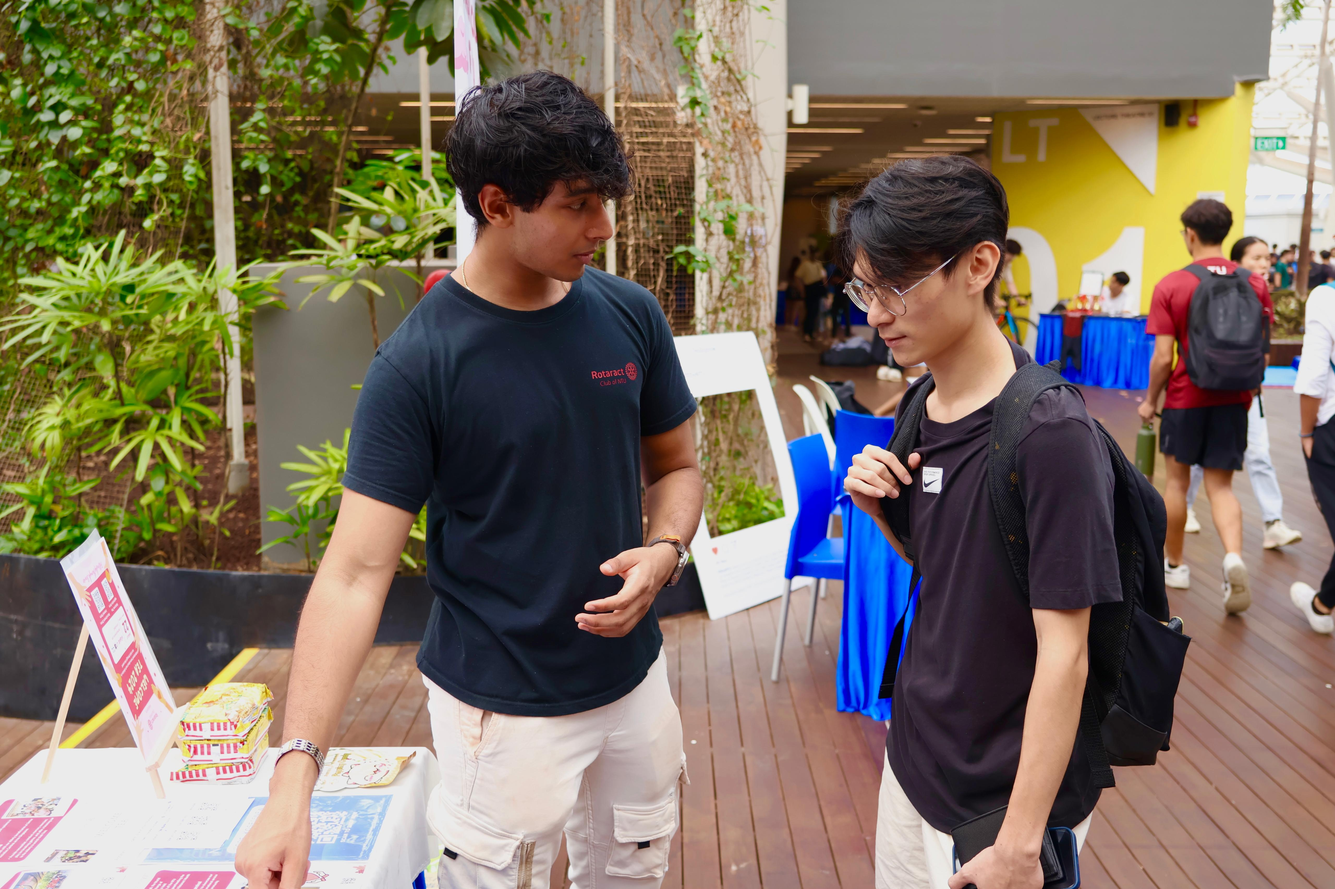
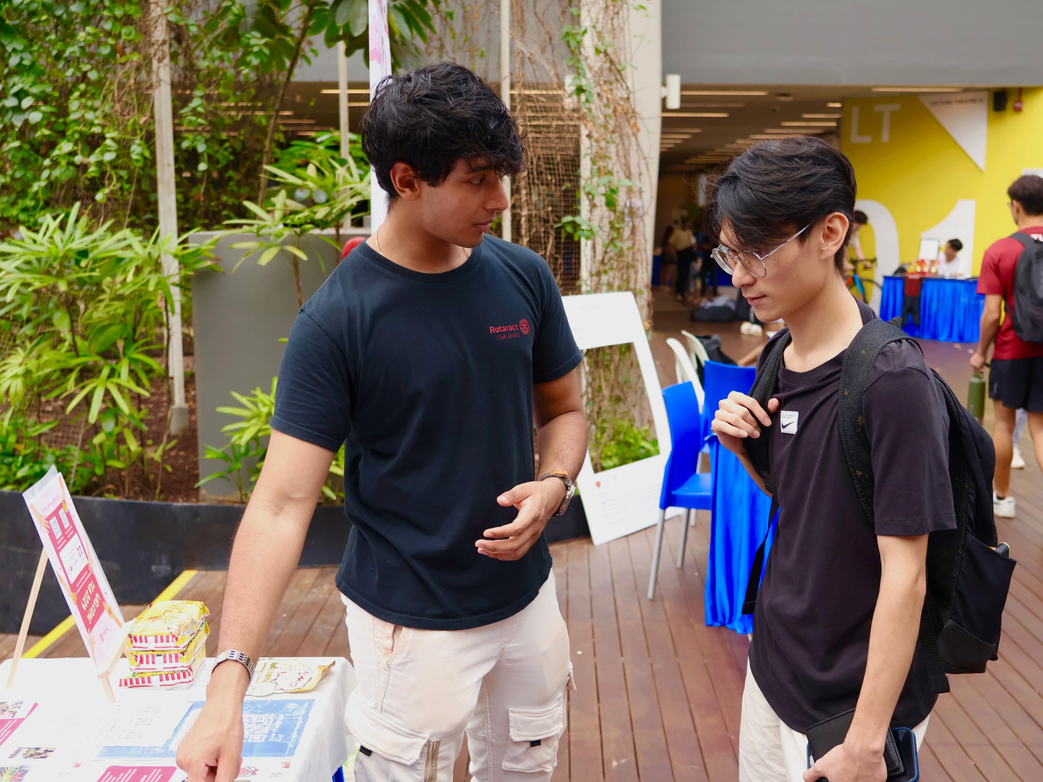
resize picture

diff --git a/ay2425/august-detail.html b/ay2425/august-detail.html
@@ -102,7 +102,7 @@ https://templatemo.com/tm-538-digital-trend
                   </div>
 
                   <div class="mySlides fade">
-                    <img src="../images/events/august/WW/ay2425/P2.jpeg" style="width:100%">
+                    <img src="../images/events/august/WW/ay2425/P2.jpg" style="width:100%">
                  </div>
 
                 <div class="mySlides fade">
@@ -110,7 +110,7 @@ https://templatemo.com/tm-538-digital-trend
                 </div>
 
                 <div class="mySlides fade">
-                  <img src="../images/events/august/WW/ay2425/P4.jpeg" style="width:100%">
+                  <img src="../images/events/august/WW/ay2425/P4.jpg" style="width:100%">
                </div>
 
                   <!-- Next and previous buttons -->
@@ -146,7 +146,7 @@ https://templatemo.com/tm-538-digital-trend
 
                   <!-- Full-width images with number (no caption) -->
                   <div class="mySlides fade">
-                      <img src="../images/events/august/WT/ay2425/P1.jpeg" style="width:100%">
+                      <img src="../images/events/august/WT/ay2425/P1.jpg" style="width:100%">
 
                   </div>
 
@@ -237,11 +237,11 @@ https://templatemo.com/tm-538-digital-trend
 
                   <!-- Full-width images with number (no caption) -->
                   <div class="mySlides fade">
-                      <img src="../images/events/august/LCB/ay2425/P1.jpeg" style="width: 100%">
+                      <img src="../images/events/august/LCB/ay2425/P1.jpg" style="width: 100%">
                   </div>
 
                   <div class="mySlides fade">
-                    <img src="../images/events/august/LCB/ay2425/P2.jpeg" style="width: 100%">
+                    <img src="../images/events/august/LCB/ay2425/P2.jpg" style="width: 100%">
                   </div>
 
                 <div class="mySlides fade">
